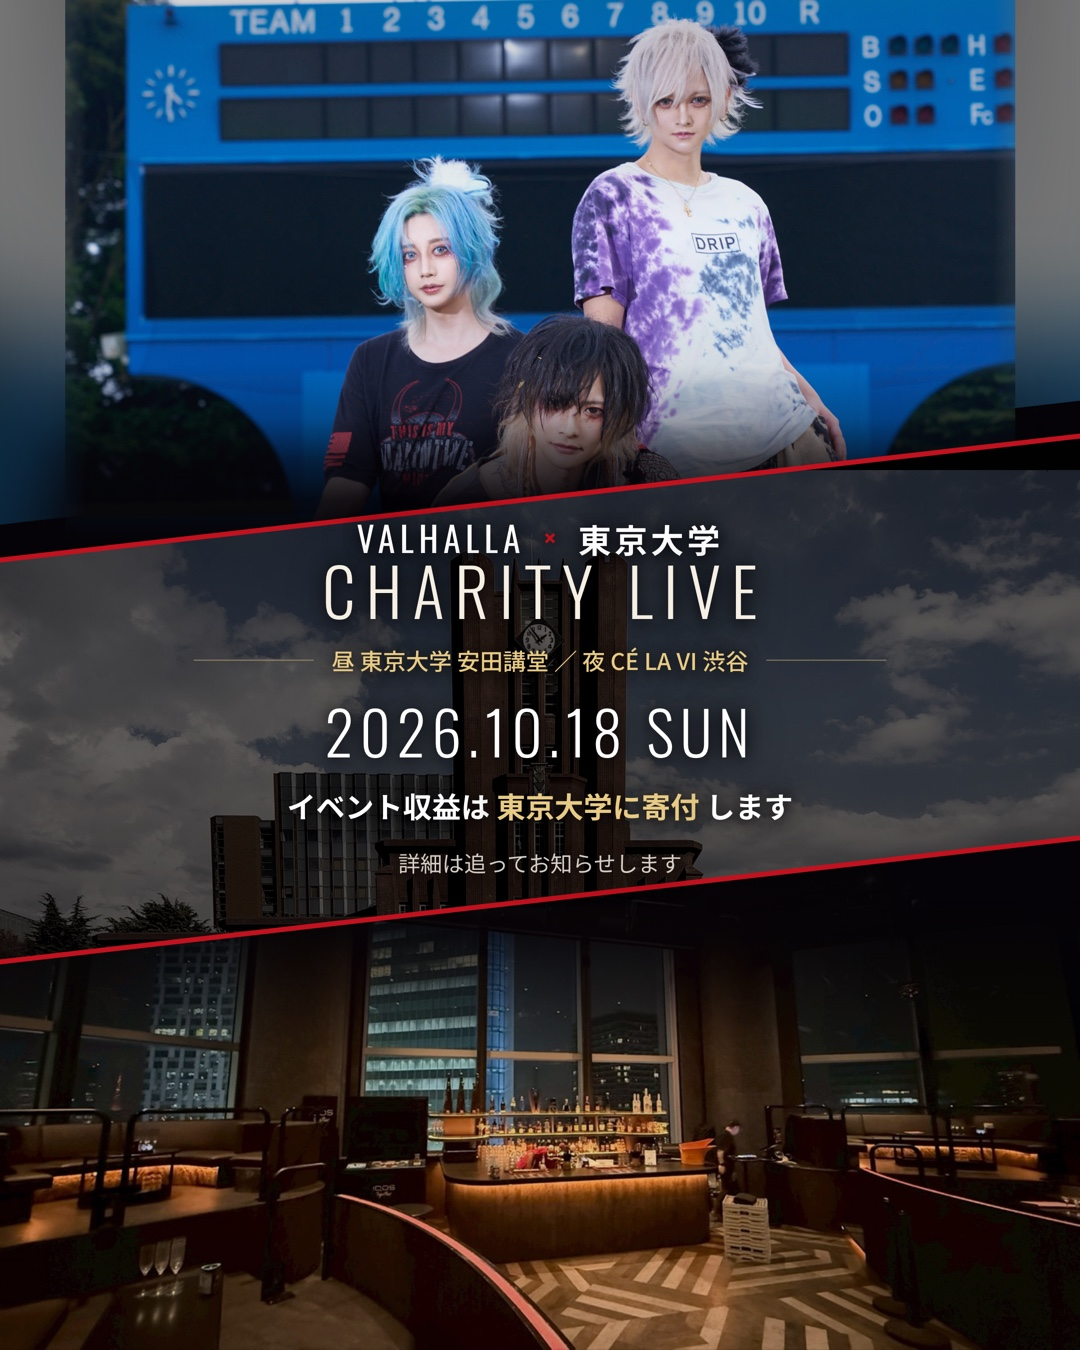
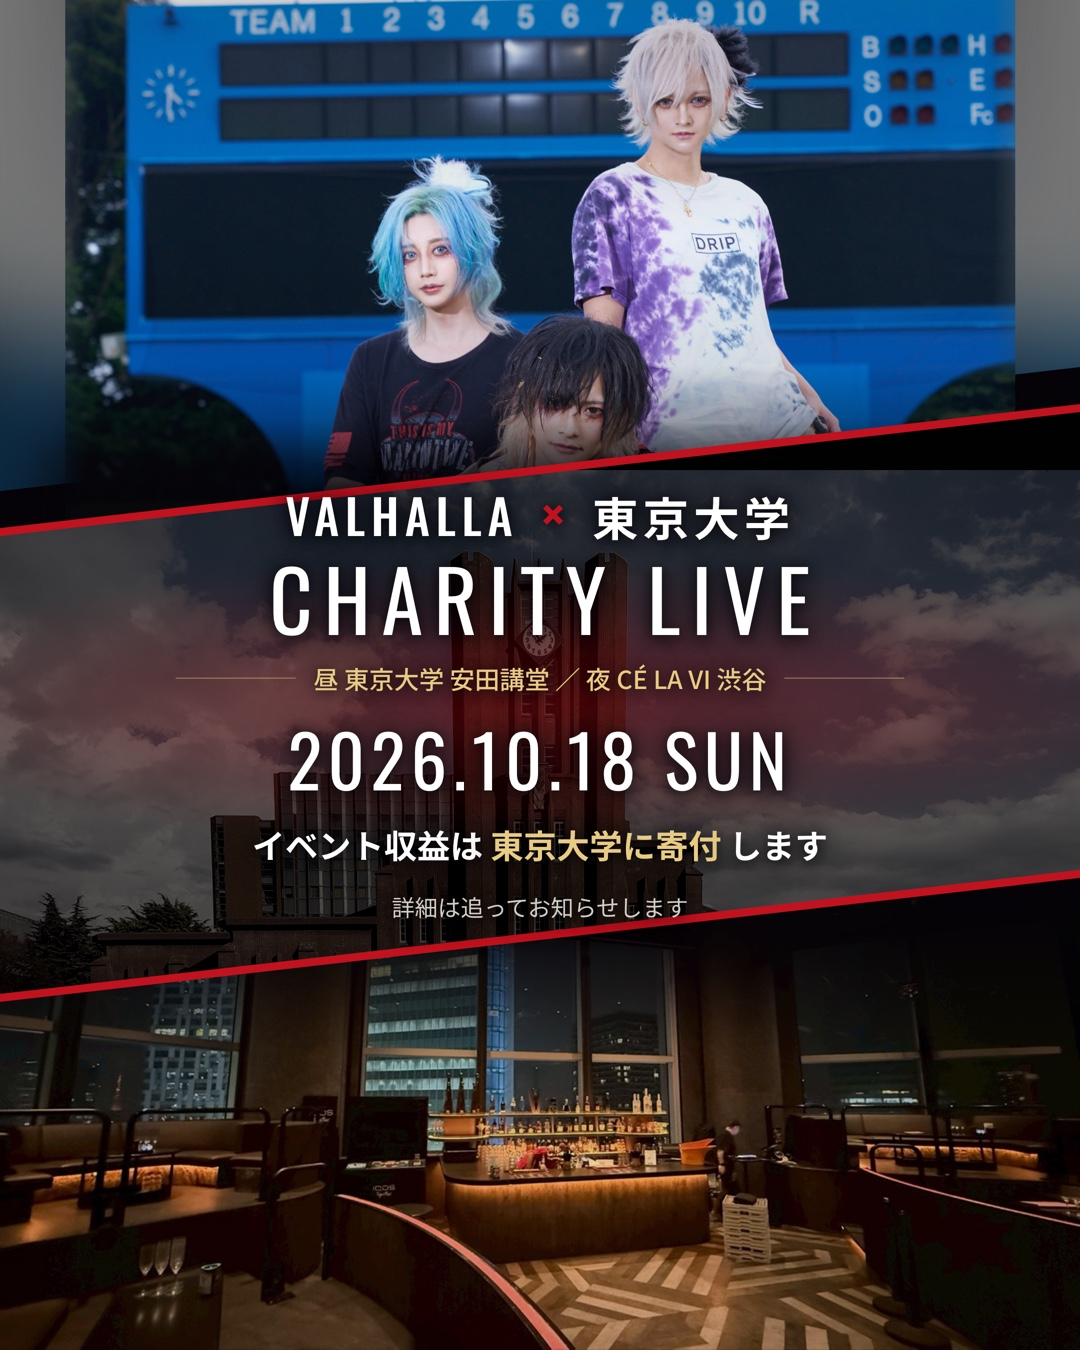
告知ティザー：インパクト強化（文字を主役級まで拡大）
kazuma「構図は理想的だがインパクトがない」。
原因は写真に対して文字が細く小さく、視線の着地点が無かったこと。

- 文字帯を広げ、見出しを一段大きく
  VALHALLA × 東京大学  39→60px（× は 43→78px・太く）
  CHARITY LIVE        78→104px、Oswald 300→400 に増量
  2026.10.18 SUN      72→88px、300→400
- 斜線を 5px → 8px に太く
- 文字帯の中央にクリムゾンの焦点（.focus）を置き、視線が文字に落ちるようにした
  （前の書き換えで .glow が消えていたので新設）
- 正方形版は縦が足りず KØU が斜線に掛かるため、上の写真をさらに引いて全員収めた

3サイズとも溢れなし。ストーリー版が引き続き基準形。

Changed region(s): [[0.0, 0.2489, 1.0, 0.7467]]

diff --git a/flyer-teaser.html b/flyer-teaser.html
@@ -32,9 +32,9 @@
     --drop:62px;
     -webkit-print-color-adjust:exact;print-color-adjust:exact}
   /* --ma = 上の境界 / --mb = 下の境界。その間が CÉ LA VI の帯 */
-  .board.t45{height:1350px;--ma:498px;--mb:900px}
-  .board.t11{height:1080px;--ma:372px;--mb:742px}
-  .board.t916{height:1920px;--ma:700px;--mb:1252px}
+  .board.t45{height:1350px;--ma:470px;--mb:936px}
+  .board.t11{height:1080px;--ma:352px;--mb:764px}
+  .board.t916{height:1920px;--ma:660px;--mb:1336px}
 
   /* ── 上半分：VALHALLA ── */
   .upbg,.up{position:absolute;inset:0;z-index:0;background-repeat:no-repeat;
@@ -70,13 +70,18 @@
       rgba(5,3,7,.60) 27%, rgba(5,3,7,.88) 31%, rgba(5,3,7,.97) 35%, #050307 38%)}
 
   /* 分割の斜線（クリムゾン） */
-  .slash{position:absolute;left:-14%;width:128%;z-index:2;height:5px;
+  .slash{position:absolute;left:-14%;width:128%;z-index:2;height:8px;
     background:linear-gradient(90deg,transparent 0,var(--crimson) 9%,var(--crimson) 91%,transparent 100%);
     transform:rotate(-6.55deg)}
-  .slash.s1{top:calc(var(--ma) - 2.5px)}
-  .slash.s2{top:calc(var(--mb) - 2.5px)}
+  .slash.s1{top:calc(var(--ma) - 4px)}
+  .slash.s2{top:calc(var(--mb) - 4px)}
 
-  /* 端に置く小さなラベル */
+  /* 文字帯にクリムゾンの焦点を寄せる */
+  .focus{position:absolute;inset:0;z-index:1;pointer-events:none;
+    background:radial-gradient(ellipse 92% 15% at 50% calc((var(--ma) + var(--mb)) / 2),
+      rgba(176,20,28,.42), transparent 72%)}
+
+  /* ── 中央の文字 ── */
   .tag{position:absolute;z-index:3;color:#fff;letter-spacing:.10em;
     text-shadow:0 2px 14px rgba(5,3,7,.95),0 0 30px rgba(5,3,7,.8)}
   .tag b{display:block;font-family:'Oswald',sans-serif;font-weight:400;letter-spacing:.20em;color:#fff}
@@ -90,13 +95,13 @@
     top:calc((var(--ma) + var(--mb)) / 2);transform:translateY(-50%);
     text-shadow:0 2px 14px rgba(5,3,7,.95),0 0 34px rgba(5,3,7,.85)}
   .pair{font-weight:700;color:#fff;letter-spacing:.10em;line-height:1}
-  .pair i{font-style:normal;color:var(--crimson);font-weight:400;
-    font-family:'Oswald',sans-serif;margin:0 .5em}
-  .pair em{font-style:normal;font-family:'Oswald',sans-serif;font-weight:400;letter-spacing:.14em}
+  .pair i{font-style:normal;color:var(--crimson);font-weight:500;
+    font-family:'Oswald',sans-serif;margin:0 .36em;vertical-align:-.06em}
+  .pair em{font-style:normal;font-family:'Oswald',sans-serif;font-weight:500;letter-spacing:.12em}
   .mark{display:block;margin:0 auto;filter:drop-shadow(0 6px 22px rgba(0,0,0,.9))}
-  h1{font-family:'Oswald',sans-serif;font-weight:300;line-height:1.04;
-    letter-spacing:.16em;text-indent:.16em;text-transform:uppercase;color:var(--ink)}
-  .date{font-family:'Oswald',sans-serif;font-weight:300;letter-spacing:.10em;color:#fff;line-height:1}
+  h1{font-family:'Oswald',sans-serif;font-weight:400;line-height:1.02;
+    letter-spacing:.13em;text-indent:.13em;text-transform:uppercase;color:#fff}
+  .date{font-family:'Oswald',sans-serif;font-weight:400;letter-spacing:.08em;color:#fff;line-height:1}
   .ruled{display:flex;align-items:center;justify-content:center;gap:18px}
   .ruled::before,.ruled::after{content:"";height:1px;background:var(--rule);flex:1;max-width:120px}
   .ruled span{font-weight:500;color:var(--gold);white-space:nowrap}
@@ -117,22 +122,22 @@
   .t45 .tag b{font-size:29px}
   .t45 .tag b.jp{font-size:27px}
   .t45 .tag span{margin-top:8px;font-size:19px}
-  .t45 .pair{font-size:33px}
-  .t45 .pair i{font-size:36px}
-  .t45 .pair em{font-size:35px}
+  .t45 .pair{font-size:46px}
+  .t45 .pair i{font-size:60px}
+  .t45 .pair em{font-size:48px}
   .t45 .mark{width:150px;margin:22px auto 16px}
-  .t45 h1{font-size:66px}
+  .t45 h1{margin-top:12px;font-size:84px}
   .t45 .ruled{margin-top:20px}
-  .t45 .ruled span{font-size:23px}
-  .t45 .date{margin-top:24px;font-size:60px}
-  .t45 .donate{margin-top:24px;font-size:29px}
-  .t45 .more{margin-top:20px;font-size:22px}
+  .t45 .ruled span{font-size:25px}
+  .t45 .date{margin-top:26px;font-size:72px}
+  .t45 .donate{margin-top:26px;font-size:33px}
+  .t45 .more{margin-top:22px;font-size:23px}
   .t45 .more u{margin-top:8px;font-size:20px}
 
   /* ---------- 1080x1080 ---------- */
   .t11 .md{background-size:100% auto;background-position:center 340px}
   .t11 .up{background-image:url('assets/charity/group_field.jpg');
-    background-size:70% auto;background-position:center -337px}
+    background-size:60% auto;background-position:center -294px}
   .t11 .dn{background-image:url('assets/charity/venue/dj.jpg');
     background-size:100% auto;background-position:center 472px}
   .t11 .up-tag{top:28px}
@@ -140,16 +145,16 @@
   .t11 .tag b{font-size:26px}
   .t11 .tag b.jp{font-size:24px}
   .t11 .tag span{margin-top:7px;font-size:18px}
-  .t11 .pair{font-size:29px}
-  .t11 .pair i{font-size:32px}
-  .t11 .pair em{font-size:31px}
+  .t11 .pair{font-size:40px}
+  .t11 .pair i{font-size:52px}
+  .t11 .pair em{font-size:42px}
   .t11 .mark{width:126px;margin:17px auto 13px}
-  .t11 h1{font-size:55px}
-  .t11 .ruled{margin-top:16px}
-  .t11 .ruled span{font-size:20px}
-  .t11 .date{margin-top:19px;font-size:50px}
-  .t11 .donate{margin-top:19px;font-size:26px}
-  .t11 .more{margin-top:16px;font-size:20px}
+  .t11 h1{margin-top:10px;font-size:70px}
+  .t11 .ruled{margin-top:17px}
+  .t11 .ruled span{font-size:21px}
+  .t11 .date{margin-top:21px;font-size:60px}
+  .t11 .donate{margin-top:21px;font-size:28px}
+  .t11 .more{margin-top:18px;font-size:20px}
   .t11 .more u{margin-top:7px;font-size:18px}
 
   /* ---------- 1080x1920 ---------- */
@@ -163,16 +168,16 @@
   .t916 .tag b{font-size:34px}
   .t916 .tag b.jp{font-size:32px}
   .t916 .tag span{margin-top:10px;font-size:22px}
-  .t916 .pair{font-size:39px}
-  .t916 .pair i{font-size:43px}
-  .t916 .pair em{font-size:41px}
+  .t916 .pair{font-size:60px}
+  .t916 .pair i{font-size:78px}
+  .t916 .pair em{font-size:62px}
   .t916 .mark{width:180px;margin:28px auto 20px}
-  .t916 h1{font-size:78px}
+  .t916 h1{margin-top:16px;font-size:104px}
   .t916 .ruled{margin-top:26px}
-  .t916 .ruled span{font-size:27px}
-  .t916 .date{margin-top:30px;font-size:72px}
-  .t916 .donate{margin-top:30px;font-size:35px}
-  .t916 .more{margin-top:26px;font-size:26px}
+  .t916 .ruled span{font-size:30px}
+  .t916 .date{margin-top:34px;font-size:88px}
+  .t916 .donate{margin-top:32px;font-size:40px}
+  .t916 .more{margin-top:28px;font-size:27px}
   .t916 .more u{margin-top:9px;font-size:23px}
 </style>
 </head>
@@ -185,6 +190,7 @@
   <div class="dn"></div>
   <div class="slash s1"></div>
   <div class="slash s2"></div>
+  <div class="focus"></div>
 
 
   <div class="body">
@@ -205,6 +211,7 @@
   <div class="dn"></div>
   <div class="slash s1"></div>
   <div class="slash s2"></div>
+  <div class="focus"></div>
 
 
   <div class="body">
@@ -225,6 +232,7 @@
   <div class="dn"></div>
   <div class="slash s1"></div>
   <div class="slash s2"></div>
+  <div class="focus"></div>
 
 
   <div class="body">
